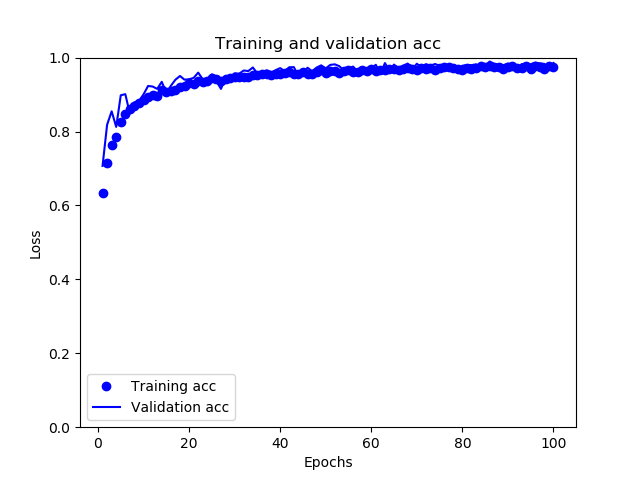
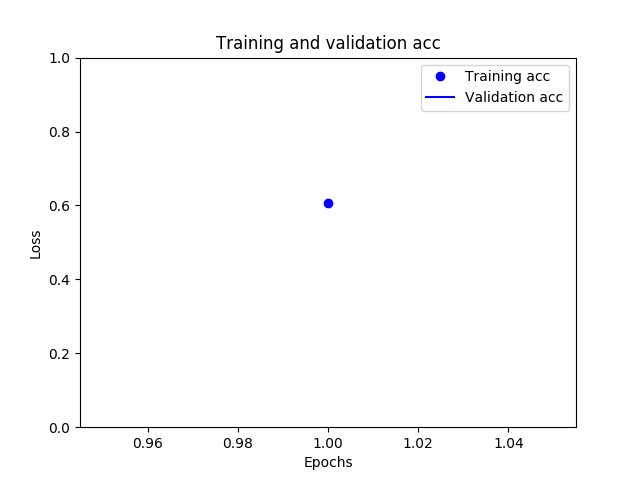
Ændringer

diff --git a/models/cnn/CNN_model_test/layer_output_test.py b/models/cnn/CNN_model_test/layer_output_test.py
@@ -1,0 +1,60 @@
+import os
+import numpy as np
+import matplotlib.pyplot as plt
+
+from keras import models
+from keras.preprocessing import image
+
+model = models.load_model('Model7.h5')
+
+np.set_printoptions(suppress=True)
+img = image.load_img('../../../files/images/dataset-resized/dataset-resized/test_data/Glas/aglas.png', target_size=(150, 150))
+test_image = image.img_to_array(img)
+test_image = test_image/255
+test_image = np.expand_dims(test_image, axis = 0)
+result = model.predict_proba(test_image)
+plt.imshow(test_image[0])
+print(result[0])
+plt.show()
+
+
+layer_outputs = [layer.output for layer in model.layers[:4]]
+activation_model = models.Model(inputs = model.input, outputs = layer_outputs)
+activations = activation_model.predict(test_image)
+
+layer_names = []
+for layer in model.layers[:4]:
+    layer_names.append(layer.name)
+
+images_per_row = 16
+
+for layer_name, layer_activation in zip(layer_names, activations):
+    n_features = layer_activation.shape[-1]
+
+    size = layer_activation.shape[1]
+
+    n_cols = n_features // images_per_row
+    display_grid = np.zeros((size * n_cols, images_per_row * size))
+
+    for col in range(n_cols):
+        for row in range(images_per_row):
+            channel_image = layer_activation[0, :, :, col * images_per_row + row]
+            # Normalize tensors
+            channel_image -= channel_image.mean()
+            channel_image /= channel_image.std()
+            channel_image *= 64
+            channel_image += 128
+            channel_image = np.clip(channel_image, 0, 255).astype('uint8')
+            display_grid[col * size: (col + 1) * size,
+            row * size: (row + 1) * size] = channel_image
+
+    scale = 1. / size
+    plt.figure(figsize=(scale * display_grid.shape[1],
+                        scale * display_grid.shape[0]))
+
+    plt.title(layer_name)
+    plt.grid(False)
+    plt.imshow(display_grid, aspect='auto', cmap='viridis')
+    plt.show()
+
+

diff --git a/models/cnn/cnn_tests/customfunctions.py b/models/cnn/cnn_tests/customfunctions.py
@@ -36,7 +36,7 @@ def get_fit_generator(classifier, trainingset, testset):
     return classifier.fit_generator(trainingset,
                              #steps_per_epoch=100,
                              # integer, number of samples to process before starting a new epoch.
-                             epochs=100,
+                             epochs=1,
                              validation_data=testset,
                              validation_steps= test_size // 32)  # number of samples to use from validation generator at the end of every epoch.
 

diff --git a/models/cnn/CNN_model_test/cnn_Model7.py b/models/cnn/CNN_model_test/cnn_Model7.py
@@ -49,5 +49,5 @@ test_set = get_test_data_gen(test_datagen)
 history = get_fit_generator(classifier, training_set, test_set)
 create_plot(history, 'model7')
 
-# classifier.save('categoricalModeltest.h5')
+# classifier.save('Model7.h5')
 K.clear_session()
